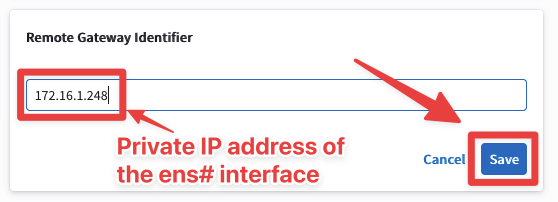
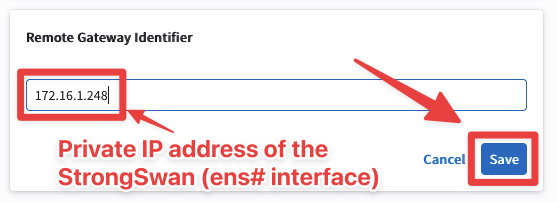
update for pro

Changed region(s): [[0.0914, 0.6535, 0.7007, 0.9505]]

diff --git a/ace_pro/docs/lab8.md b/ace_pro/docs/lab8.md
@@ -139,7 +139,7 @@ Since On-Prem-Partner1 uses the overlapping IP space, we will utilise the Aviatr
 
 For example, gcp-us-central1-test1 (172.16.1.100) will be reached at 192.168.200.100 due to 1:1 NAT.
 
-### 4.2. Site2Cloud Connection - StrongSwan's private IP
+### 4.2. Site2Cloud Connection - StrongSwan's private IP address
 
 The StrongSwan has been alreayd pre-configured with the IPSec commands. Nevertheless, you need to fetch its private IP address!
 
@@ -199,6 +199,45 @@ align: center
 Remote Gateway Identifier
 ```
 
+### 4.3 Site2Cloud Connection - StrongSwan's configuration
+
+Now you have to complete the IPSec configuration of the StrongSwan router.
+
+SSH to the StrongSwan router. You can either use the public IP address that you retrieved before using the dig/nslookup command or you can use its dns name available on your personal POD portal.
+
+```{figure} images/lab8-personalpod.png
+---
+align: center
+---
+StrongSwan's DNS name
+```
+
+```{figure} images/lab8-strong.png
+---
+align: center
+---
+SSH
+```
+
+Now you need to **edit** the StrongSwan's router configuration file. 
+Check the content of the following file: `/etc/swanctl/swanctl.conf`
+
+Type the following command:
+
+```bash
+cat /etc/swanctl/swanctl.conf
+```
+
+You will need to replace **`REPLACE_WITH_SPOKE_GW_PUBLIC_IP`** with the public IP of the spoke gateway in 3 places in /`etc/swanctl/swanctl.conf`
+
+```{figure} images/lab8-replace.png
+---
+align: center
+---
+cfg file
+```
+
+Go to CoPilot > Cloud Fabric > Gateways > Spoke Gateways and then copy
 After doing so, click on the refres button
 
 ```{figure} images/lab8-up.png
